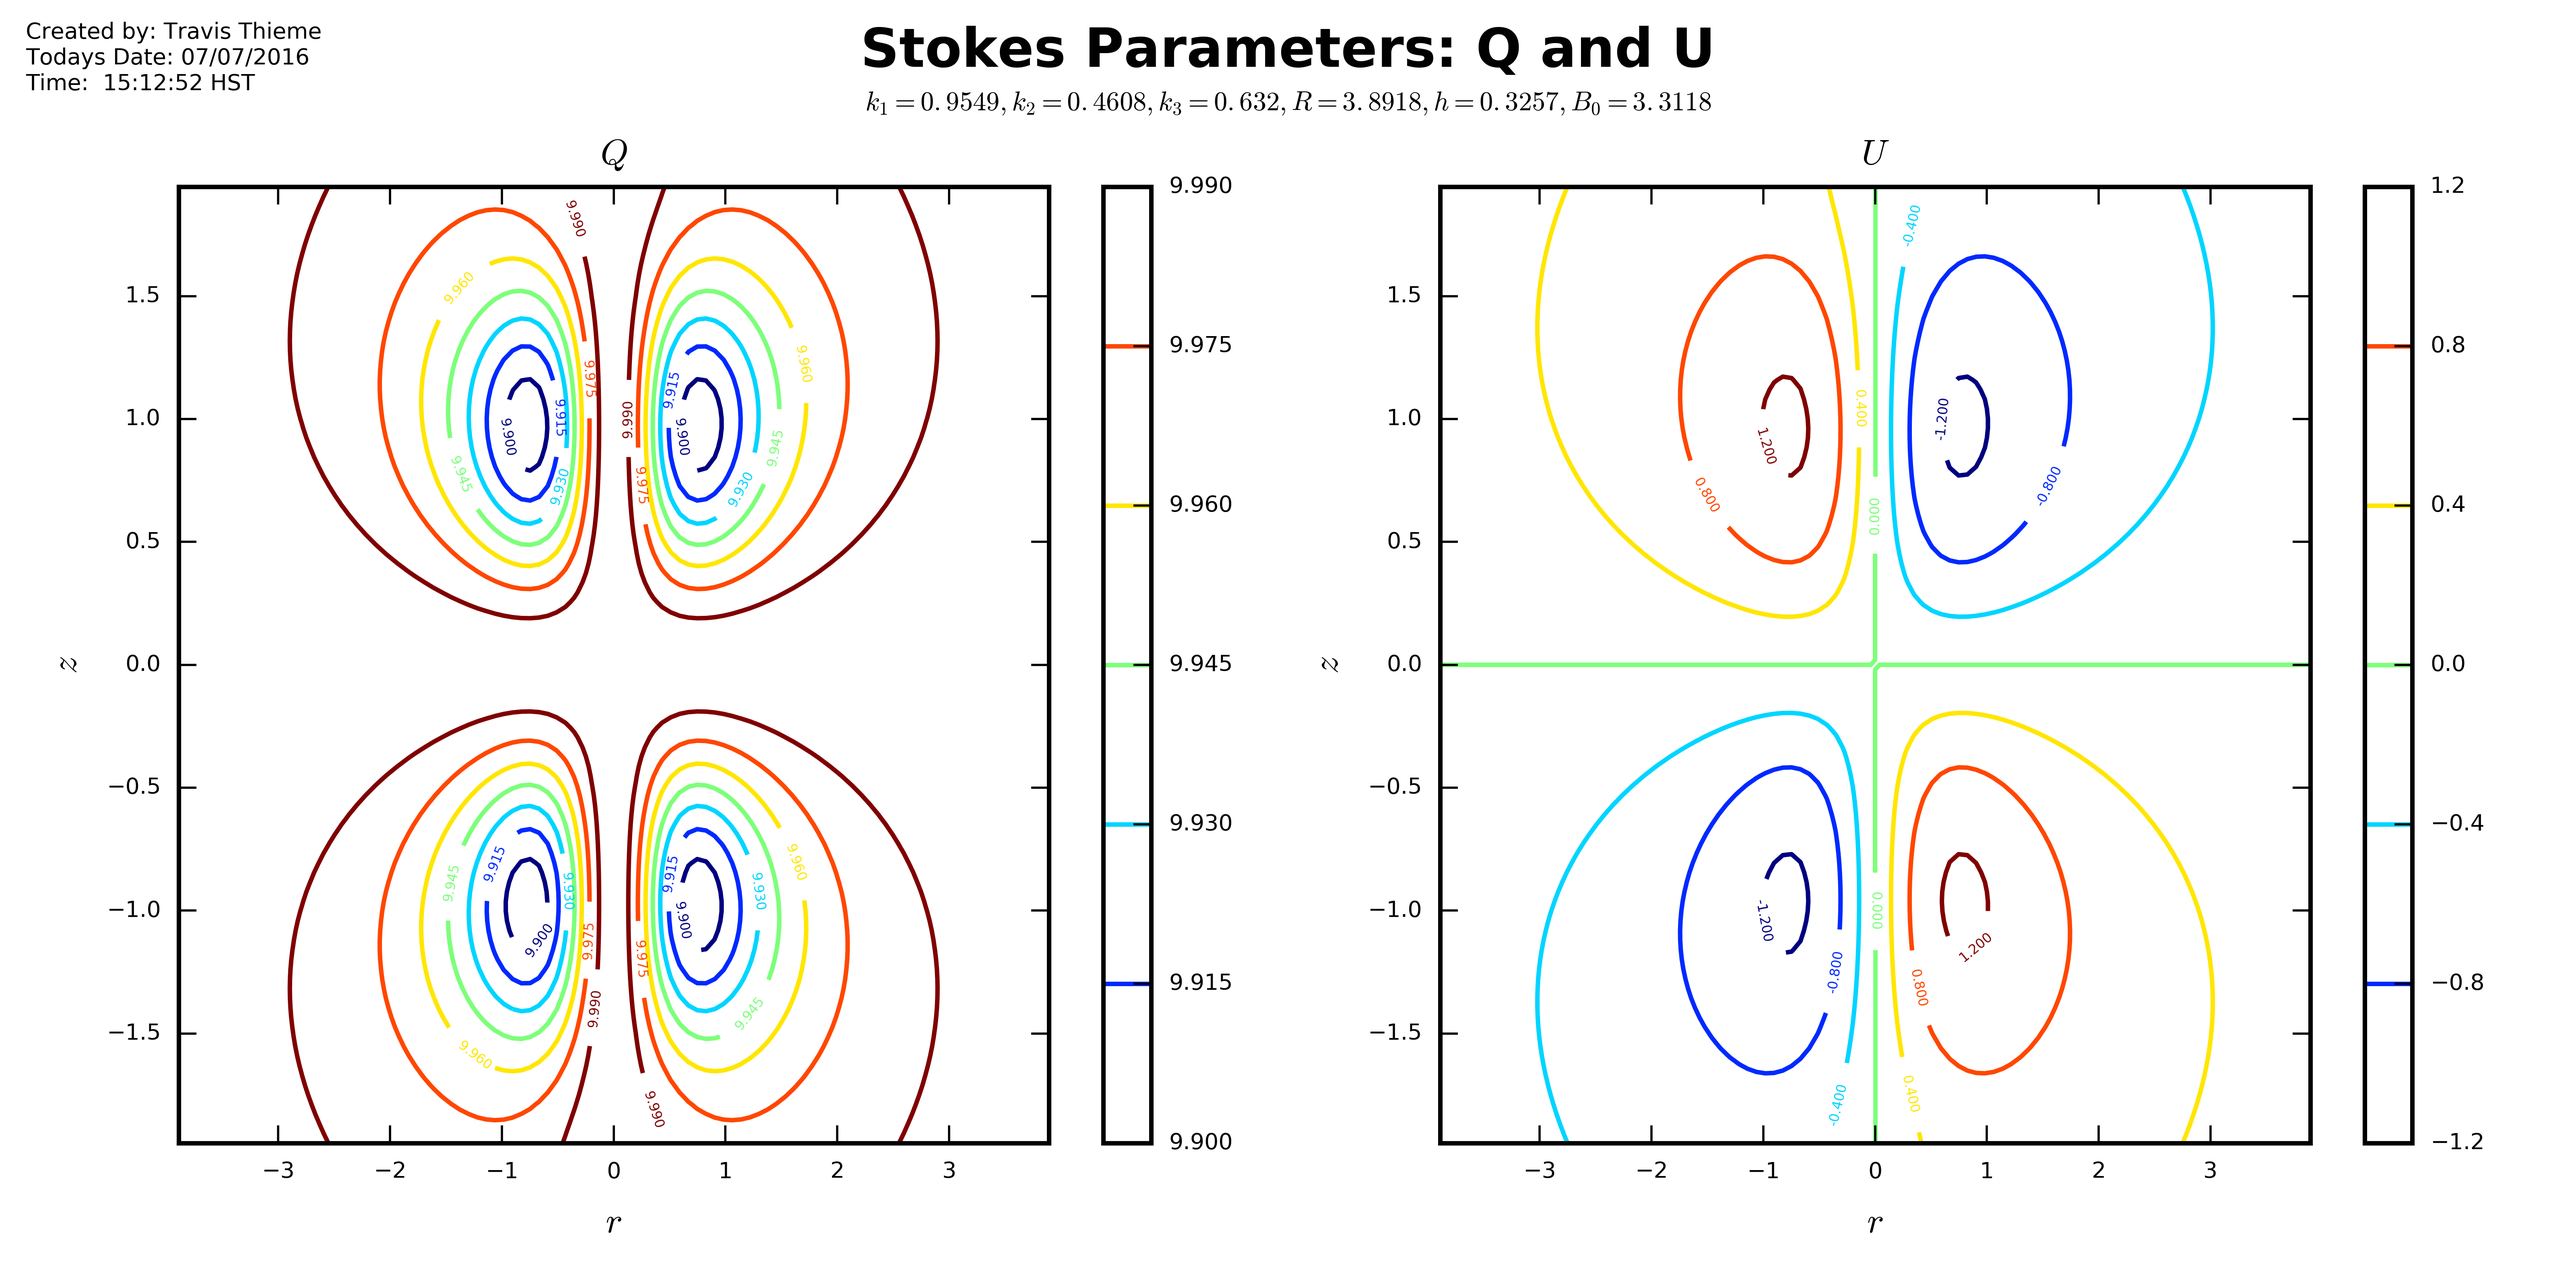
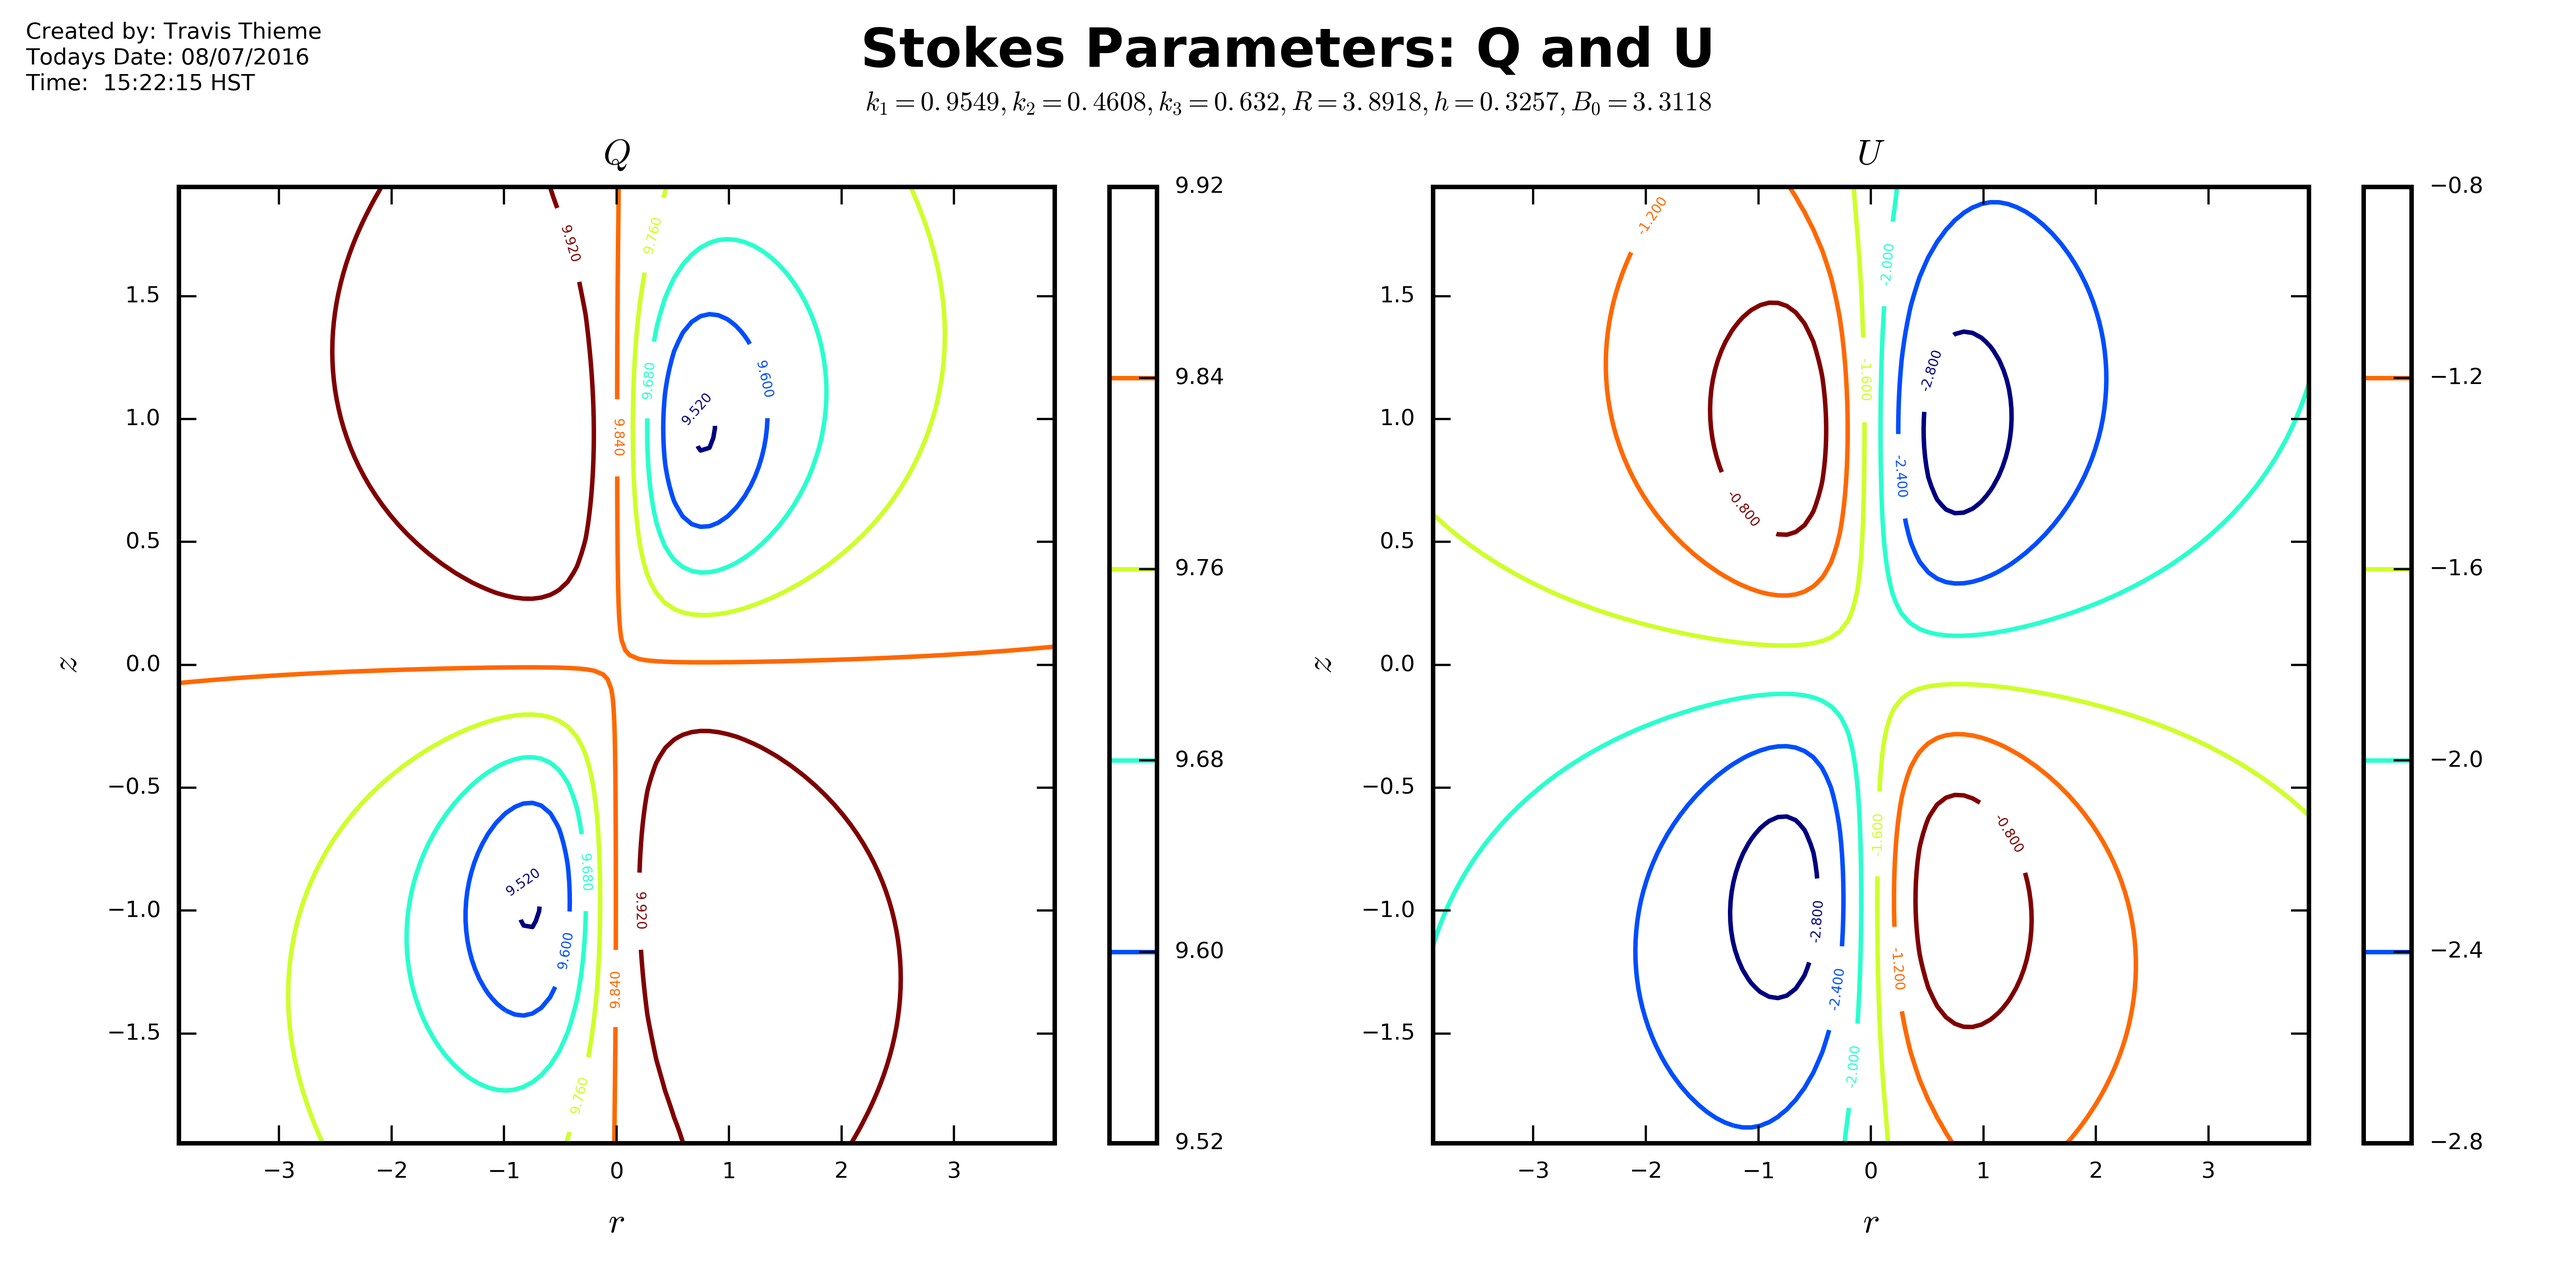
More attempts at rotation--unsuccessful

diff --git a/Star_Model/star_model.py b/Star_Model/star_model.py
@@ -25,9 +25,10 @@ import scipy as sp
 #import astropy as astro
 #import math as m
 import matplotlib.pyplot as plt
-#import mplot3d.axes3d as plt3
 from mpl_toolkits.mplot3d import Axes3D
 import mayavi.mlab as ml
+import skimage.transform as image
+#import vpython as visual
 #import pyqtgraph as pyqt
 #import wx as wxp
 
@@ -314,58 +315,55 @@ def magnetic_field(v_scale = 1, h_scale = 1, R = 3.8918, k1 = 0.9549, k2 = 0.460
       plt.savefig('3D_mag_field_plots', dpi = 800)
       plt.show()
 
-    ############################################################## 
-    ### PLOT 8 ###################################################
-    ############################################################## 
-
-    if print_which == '8' or print_which == 'all':
-      ############################################################  
-      ## This graph is the mplot3d version of the mayavi3d graph.
-      ## You can set the rotation of the xy and z axis by
-      ## entering an integer (in degrees) between -360 and 360
-      ## for either axis.
-      ############################################################
-
-      print '\n'      
-      print 'Please enter the rotation parameters for plot 8.'
-      print 'You can rotate this graph in the xy direction and \nthe z direction.'
-      print 'The xy direction is set at 0 degrees to be looking \nat the x-axis.'
-      print 'The z direction is set at 0 degrees to be vertically \noriented.'
-      print 'Please enter an integer from -360 to 360'
-      try:
-        rotate_xy = int(raw_input("Rotation amount in xy direction (degrees): ")) 
-      except:
-        ###ERROR###
-        print 'Error! Try again.'
-        print 'Please enter an integer (in degrees) from -360 to 360'
-      try:
-        rotate_z = int(raw_input("Rotation amount in z direction (degrees): ")) 
-      except:
-        ###ERROR###
-        print 'Error! Try again.'
-        print 'Please enter an integer (in degrees) from -360 to 360'
-      
-      ### PLOT
-      r = np.linspace(-1, 1, 100)*R
-      z = np.linspace(-0.5, 0.5, 100)*R
-      x, y = np.meshgrid(r,z)
-      xx, yy, zz = np.mgrid[-0.5:0.5:10j, -0.5:0.5:100j, -0.5:0.5:100j]*R
-      rr = np.sqrt(xx*xx+yy*yy)      
-      Br, Bz = calc_Br_Bz(rr,zz,k,lambda_m,h,B_0)
-      Bx, By= calc_BxBy(Br,xx,yy)
-      Bx *= density(xx, yy, zz, R, h)
-      By *= density(xx, yy, zz, R, h)
-      Bz *= density(xx, yy, zz, R, h)
-      Q, U = calc_Sq_Su(By, Bz)
-      subtitle='$k_1 = {0}, k_2 = {1}, k_3 = {2}, R = {3}, h = {4}, B_0 = {5}$'.format(k1, k2, k3, R, h, B_0)
-      fig = figure_info(8, title='Stokes Parameters: Q and U',subtitle=subtitle)
-      #plt.subplot(1,2,1)
-      plot_3d_contour(fig,x,y,Q,rotate_xy,rotate_z)
-      #plt.subplot(1,2,2)
-      #plot_3d_contour(fig,x,y,U,rotate_xy,rotate_z)
-      plt.tight_layout()
-      plt.savefig('3D_stokes_param', dpi = 800)
-      plt.show()
+#    ############################################################## 
+#    ### PLOT 8 ###################################################
+#    ############################################################## 
+#
+#    if print_which == '8' or print_which == 'all':
+#      ############################################################  
+#      ## 
+#      ############################################################
+#
+#      print '\n'      
+#      print 'Please enter the rotation parameters for plot 8.'
+#      print 'You can rotate this graph in the xy direction and \nthe z direction.'
+#      print 'The xy direction is set at 0 degrees to be looking \nat the x-axis.'
+#      print 'The z direction is set at 0 degrees to be vertically \noriented.'
+#      print 'Please enter an integer from -360 to 360'
+#      try:
+#        rotate_xy = int(raw_input("Rotation amount in xy direction (degrees): ")) 
+#      except:
+#        ###ERROR###
+#        print 'Error! Try again.'
+#        print 'Please enter an integer (in degrees) from -360 to 360'
+#      try:
+#        rotate_z = int(raw_input("Rotation amount in z direction (degrees): ")) 
+#      except:
+#        ###ERROR###
+#        print 'Error! Try again.'
+#        print 'Please enter an integer (in degrees) from -360 to 360'
+#      
+#      ### PLOT
+#      r = np.linspace(-1, 1, 100)*R
+#      z = np.linspace(-0.5, 0.5, 100)*R
+#      x, y = np.meshgrid(r,z)
+#      xx, yy, zz = np.mgrid[-0.5:0.5:10j, -0.5:0.5:100j, -0.5:0.5:100j]*R
+#      rr = np.sqrt(xx*xx+yy*yy)      
+#      Br, Bz = calc_Br_Bz(rr,zz,k,lambda_m,h,B_0)
+#      Bx, By= calc_BxBy(Br,xx,yy)
+#      Bx *= density(xx, yy, zz, R, h)
+#      By *= density(xx, yy, zz, R, h)
+#      Bz *= density(xx, yy, zz, R, h)
+#      Q, U = calc_Sq_Su(By, Bz)
+#      subtitle='$k_1 = {0}, k_2 = {1}, k_3 = {2}, R = {3}, h = {4}, B_0 = {5}$'.format(k1, k2, k3, R, h, B_0)
+#      fig = figure_info(8, title='Stokes Parameters: Q and U',subtitle=subtitle)
+#      #plt.subplot(1,2,1)
+#      plot_3d_contour(fig,x,y,Q,rotate_xy,rotate_z)
+#      #plt.subplot(1,2,2)
+#      #plot_3d_contour(fig,x,y,U,rotate_xy,rotate_z)
+#      plt.tight_layout()
+#      plt.savefig('3D_stokes_param', dpi = 800)
+#      plt.show()
 
     ############################################################## 
     ### INFO #####################################################
@@ -434,17 +432,29 @@ def calc_Sq_Su(By, Bz):
         Su[j][k] = 0
         
         for i in range(10):
-          
+
           Byy = By[i][j][k]
           Bzz = Bz[i][j][k]
-          #print By[i][j][k]
           
-          theta = np.arctan2(Bzz,Byy)
+          theta = 135
+          y_rot = Byy*np.cos(theta) - Bzz*np.sin(theta)
+          z_rot = Byy*np.sin(theta) +  Bzz*np.cos(theta)
+#          
+#          vector = visual.vector(0, By[i][j][k], Bz[i][j][k])
+#          
+#          rotate = visual.rotate(vector,angle=visual.radians(145),axis=Bz[i][j][k])
+#
+#          Byy = float(rotate.y)
+#          Bzz = float(rotate.z)
+          
+#          Byz = [By[i][j][k],Bz[i][j][k]]
+#          sp.ndimage.interpolation.rotate(Byz, 45)
+          
+          theta = np.arctan2(z_rot,y_rot)
           theta_p = (np.pi/2) + theta
           
           Q = np.cos(2*theta_p)
           U = np.sin(2*theta_p)
-          
           
           Sq[j][k] += Q
           Su[j][k] += U
